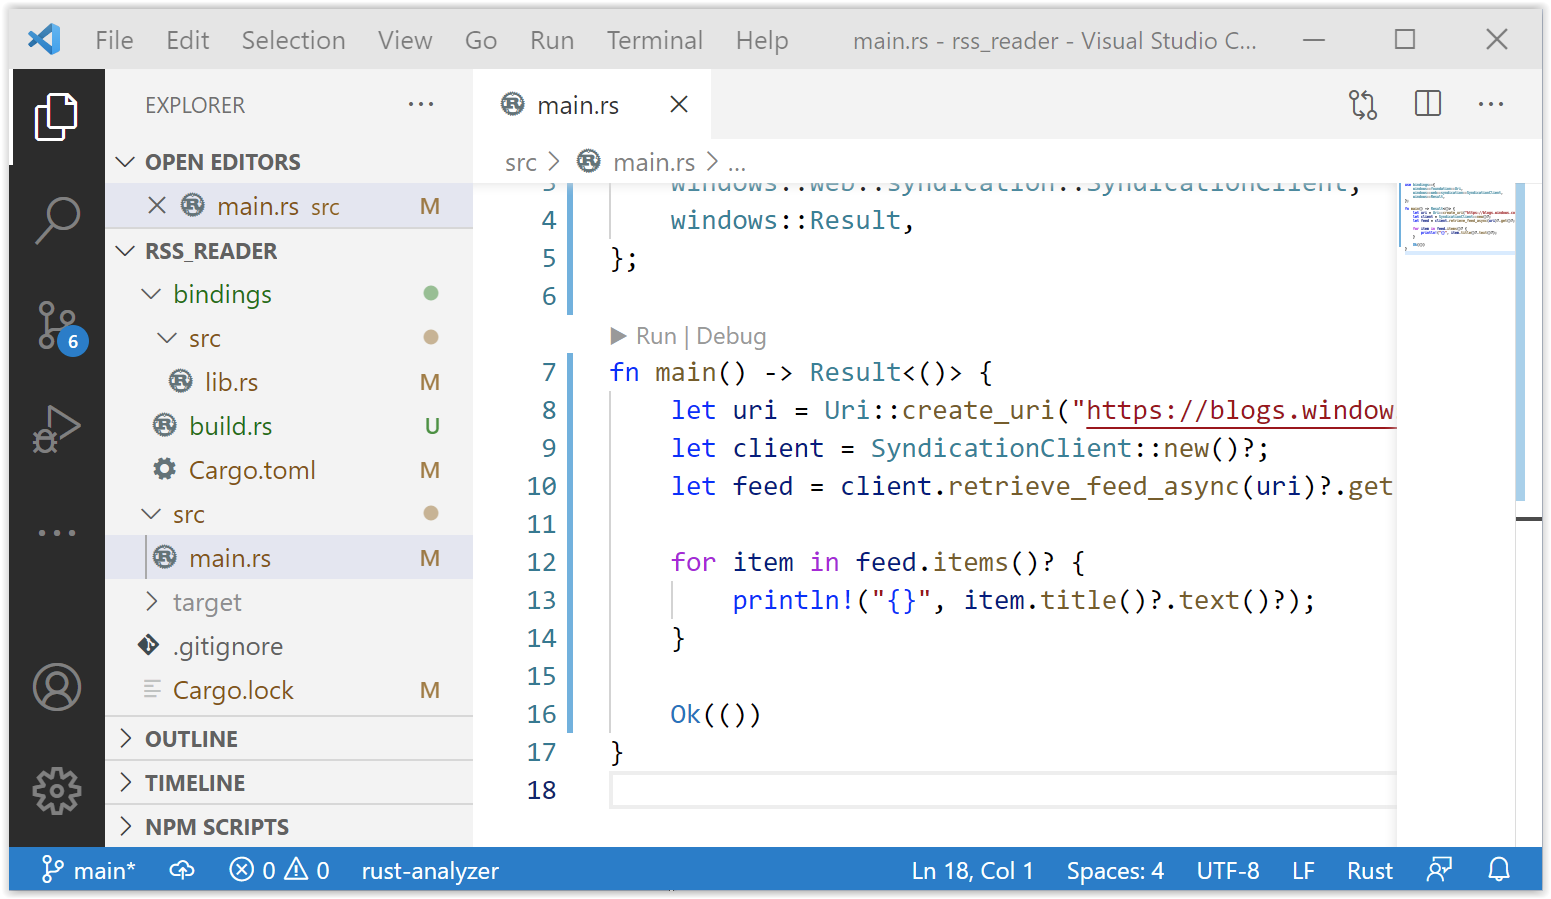
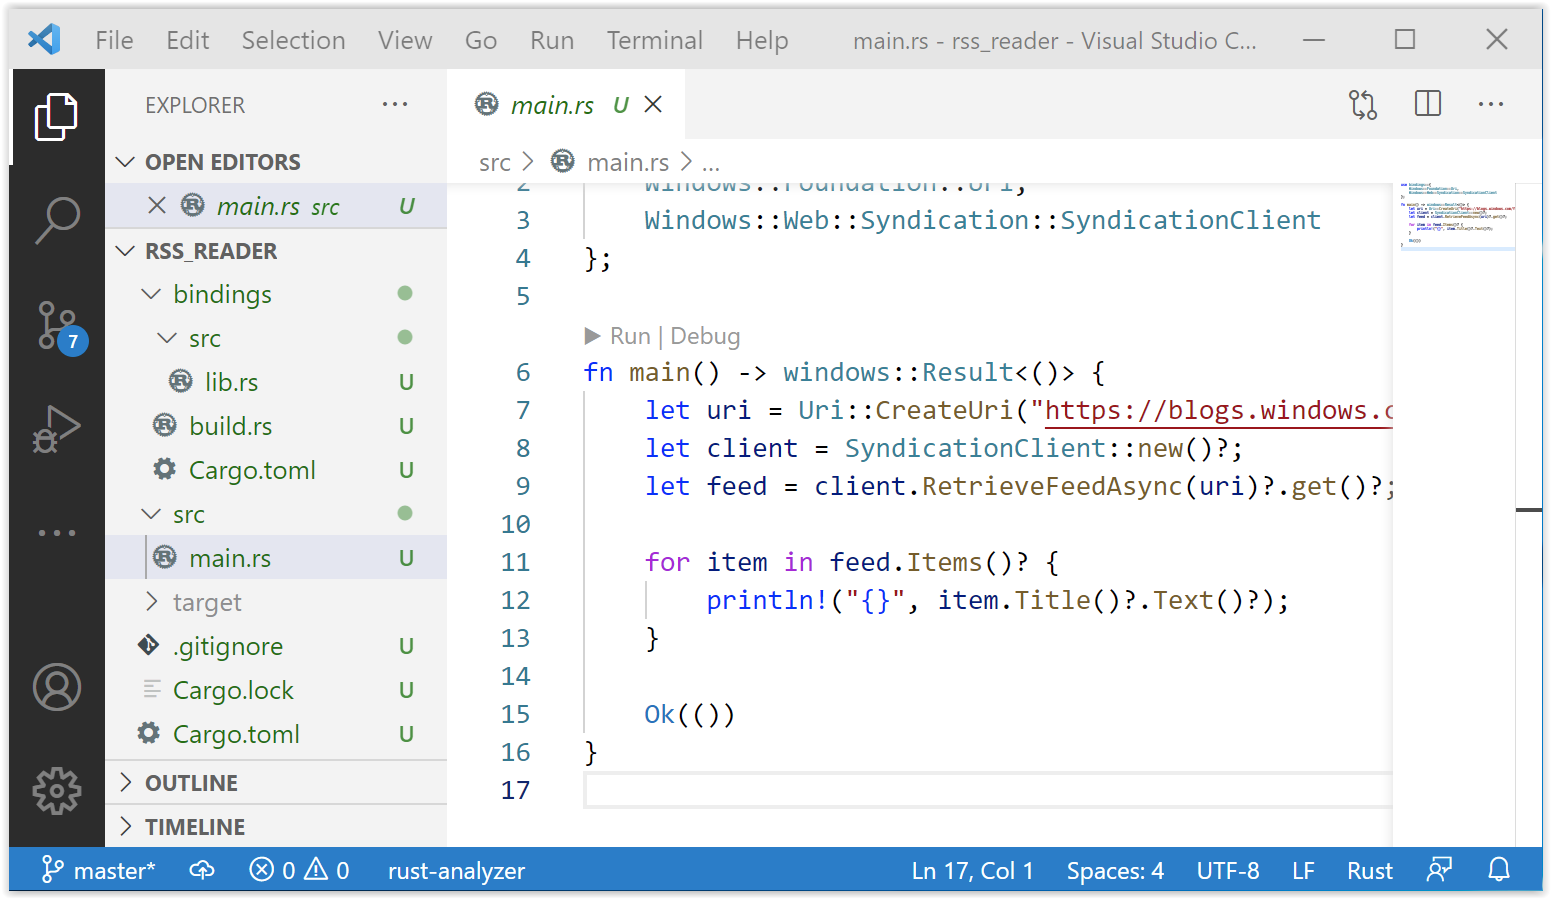
updating images (#1501)
* updating images

* date

diff --git a/hub/dev-environment/rust/rss-reader-rust-for-windows.md b/hub/dev-environment/rust/rss-reader-rust-for-windows.md
@@ -7,7 +7,7 @@ manager: jken
 ms.topic: article
 keywords: rust, windows 10, microsoft, learning rust, rust on windows for beginners, rust with vs code, rust for windows
 ms.localizationpriority: medium
-ms.date: 03/04/2021
+ms.date: 05/03/2021
 ---
 
 # RSS reader tutorial (Rust for Windows with VS Code)
@@ -16,7 +16,7 @@ The previous topic introduced [Rust for Windows, and the windows crate](rust-for
 
 Now let's try out Rust for Windows by writing a simple app that downloads the titles of blog posts from a Really Simple Syndication (RSS) feed.
 
-1. Launch a command prompt (the **x64 Native Tools Command Prompt for VS**, or any `cmd.exe`), and `cd` to a folder where you want to keep your Rust projects.
+1. Launch a command prompt (`cmd.exe`), and `cd` to a folder where you want to keep your Rust projects.
 
 2. Then, via Cargo, create a new Rust project named *rss_reader*, and `cd` into the project's newly-created folder.
 
@@ -80,7 +80,7 @@ Now let's try out Rust for Windows by writing a simple app that downloads the ti
 
     The `windows::build!` macro takes care of resolving any dependencies in the form of `.winmd` files, and generating bindings for selected types directly from metadata. We *could* have asked for an entire namespace (with `Windows::Web::Syndication::*`). But here we're asking for bindings to be generated only for the particular types we specify (such as [**SyndicationClient**](/uwp/api/windows.web.syndication.syndicationclient)). In this way, you can import as little or as much as you need, and avoid waiting for code to be generated and compiled for things that you'll never need.
    
-    As well as the types that we'll be using explicitly, we also specify all of their dependencies. For example, we'll be using a method of **SyndicationClient** that expects a parameter of type [**Uri**](/uwp/api/windows.foundation.uri). So in the *build* macro we also include the definition for **Windows::Foundation::Uri** so that we can call that method. Other types are part of the **windows** crate itself. For example, **windows::Result** (which we'll see in use soon) is defined by the *windows* crate, so it's always available.
+    As well as the types that we'll be using explicitly, we also specify all of their dependencies. For example, we'll be using a method of **SyndicationClient** that expects a parameter of type [**Uri**](/uwp/api/windows.foundation.uri). So in the *build* macro we also include the definition for **Windows::Foundation::Uri** so that we can call that method. Other types are part of the **windows** crate itself. For example, **windows::Result** (which we'll see in use soon) is defined by the *windows* crate, so it's always available. Note the lower-case **windows** in **windows::Result**, as compared to the Pascal-cased namespace and type names for Windows types.
 
 7. Open the `bindings` > `src` > `lib.rs` source code file. To include the bindings generated in the previous step, replace the default code that you'll find in `lib.rs` with the following.
 
@@ -124,14 +124,14 @@ Now let's try out Rust for Windows by writing a simple app that downloads the ti
     // src\main.rs
     ...
 
-    fn main() -> Result<()> {
+    fn main() -> windows::Result<()> {
         let uri = Uri::CreateUri("https://blogs.windows.com/feed")?;
 
         Ok(())
     }
     ```
 
-    Notice that we're using the **windows::Result** as the return type of the **main** function. This will make things easier, as it's common to deal with errors from operating system (OS) APIs. **windows::Result** helps us with error propagation, and concise error handling.
+    Notice that we're using **windows::Result** as the return type of the **main** function. This will make things easier, as it's common to deal with errors from operating system (OS) APIs. **windows::Result** helps us with error propagation, and concise error handling.
 
     You can see the question-mark operator at the end of the line of code that creates a **Uri**. To save on typing, we do that to make use of Rust's error-propagation and short-circuiting logic. That means we don't have to do a bunch of manual error handling for this simple example. For more info about this feature of Rust, see [The ? operator for easier error handling](https://doc.rust-lang.org/edition-guide/rust-2018/error-handling-and-panics/the-question-mark-operator-for-easier-error-handling.html).
 

diff --git a/hub/dev-environment/rust/setup.md b/hub/dev-environment/rust/setup.md
@@ -41,7 +41,7 @@ Next, [install Rust from the Rust website](https://www.rust-lang.org/tools/insta
 > [!TIP]
 > Rust works very well on Windows; so there's no need for you to go the WSL route (unless you plan to locally compile and test on Linux). Since you have Windows, we recommend that you just run the `rustup` installer for 64-bit Windows. You'll then be all set to write apps *for* Windows using Rust.
 
-When the Rust installer is finished, you'll be ready to program with Rust. You won't have a convenient IDE yet (we'll cover that in the next section&mdash;[Install Visual Studio Code](#install-visual-studio-code)). And you're not yet set up to call Windows APIs. But you could launch a command prompt (the **x64 Native Tools Command Prompt for VS**, or any `cmd.exe`), and perhaps issue the command `cargo --version`. If you see a version number printed, then that confirms that Rust installed correctly.
+When the Rust installer is finished, you'll be ready to program with Rust. You won't have a convenient IDE yet (we'll cover that in the next section&mdash;[Install Visual Studio Code](#install-visual-studio-code)). And you're not yet set up to call Windows APIs. But you could launch a command prompt (`cmd.exe`), and perhaps issue the command `cargo --version`. If you see a version number printed, then that confirms that Rust installed correctly.
 
 If you're curious about the use of the `cargo` keyword above, *Cargo* is the name of the tool in the Rust development environment that manages and builds your projects (more properly, *packages*) and their dependencies.
 
@@ -70,7 +70,7 @@ VS Code also contains a [built-in terminal](https://code.visualstudio.com/docs/e
 
 Let's take Rust for a spin with a simple "Hello, world!" app.
 
-1. First, launch a command prompt (the **x64 Native Tools Command Prompt for VS**, or any `cmd.exe`), and `cd` to a folder where you want to keep your Rust projects.
+1. First, launch a command prompt (`cmd.exe`), and `cd` to a folder where you want to keep your Rust projects.
 
 2. Then ask Cargo to create a new Rust project for you with the following command.
 
